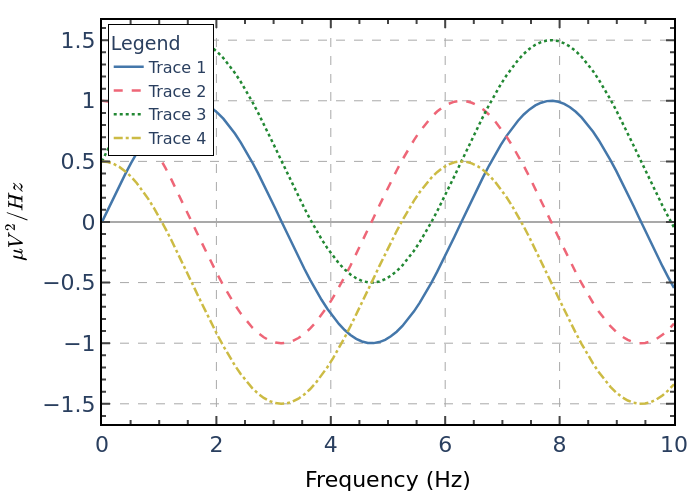
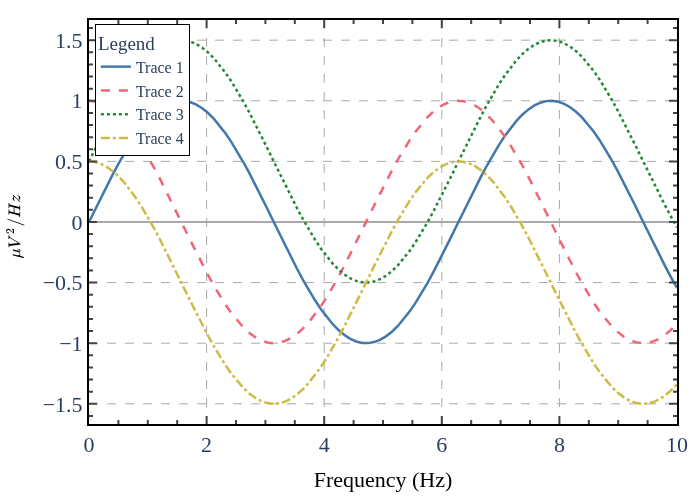
feat: Add APS style to plotly science plots
- Added a new 'aps' plot style configuration inside `apply_science_style`, updating the base science style with 'Times New Roman' font and black font color as per requirements.
- Updated `__main__` execution block to output an example plot matching the desired probability density function and theoretical PDF curve.
- Used raw string literals to avoid Python 3.12+ syntax warnings with latex characters (`\s`).
- Included `aps` in the listed `README.md` styles.

diff --git a/plotly_science_plots.py b/plotly_science_plots.py
@@ -100,6 +100,20 @@ def apply_science_style(fig, style_name, palette='science', grid=False, legend_p
         # Nature specific overrides
         fig.update_layout(font=dict(family="Arial"))
 
+    elif style_name == 'aps':
+        # Apply the base 'science' style first
+        apply_science_style(fig, 'science', palette=palette, grid=grid, legend_pos=legend_pos, xaxis_title=xaxis_title, yaxis_title=yaxis_title)
+
+        # APS specific overrides
+        fig.update_layout(
+            font=dict(family="Times New Roman", color="black"),
+            legend=dict(title_text='', bordercolor='lightgrey'),
+            margin=dict(l=40, r=20, t=20, b=40)
+        )
+        # Update grids to match typical APS style (lighter dashed grid)
+        fig.update_xaxes(gridcolor='lightgrey', zerolinecolor='lightgrey')
+        fig.update_yaxes(gridcolor='lightgrey', zerolinecolor='lightgrey')
+
 
 if __name__ == '__main__':
     # Create a dummy figure
@@ -111,9 +125,9 @@ if __name__ == '__main__':
 
     # --- Science Plot ---
     fig_science = go.Figure()
-    fig_science.add_trace(go.Scatter(x=x, y=y1, mode='lines', name='$\sin(x)$'))
-    fig_science.add_trace(go.Scatter(x=x, y=y2, mode='lines', name='$\cos(x)$'))
-    apply_science_style(fig_science, 'science', palette='bright', grid=True, legend_pos='bottom_right', xaxis_title="X-axis Title (units)", yaxis_title="Y-axis Title ($\int_0^x \sin(t) dt$)")
+    fig_science.add_trace(go.Scatter(x=x, y=y1, mode='lines', name=r'$\sin(x)$'))
+    fig_science.add_trace(go.Scatter(x=x, y=y2, mode='lines', name=r'$\cos(x)$'))
+    apply_science_style(fig_science, 'science', palette='bright', grid=True, legend_pos='bottom_right', xaxis_title="X-axis Title (units)", yaxis_title=r"Y-axis Title ($\int_0^x \sin(t) dt$)")
     fig_science.write_image("science.png")
 
     # --- IEEE Plot ---
@@ -122,12 +136,52 @@ if __name__ == '__main__':
     fig_ieee.add_trace(go.Scatter(x=x, y=y2, mode='lines', name='Trace 2'))
     fig_ieee.add_trace(go.Scatter(x=x, y=y3, mode='lines', name='Trace 3'))
     fig_ieee.add_trace(go.Scatter(x=x, y=y4, mode='lines', name='Trace 4'))
-    apply_science_style(fig_ieee, 'ieee', palette='bright', grid=True, legend_pos='top_left', xaxis_title="Frequency (Hz)", yaxis_title="Power Spectral Density ($\mu V^2/Hz$)")
+    apply_science_style(fig_ieee, 'ieee', palette='bright', grid=True, legend_pos='top_left', xaxis_title="Frequency (Hz)", yaxis_title=r"Power Spectral Density ($\mu V^2/Hz$)")
     fig_ieee.write_image("ieee.png")
 
     # --- Nature Plot ---
     fig_nature = go.Figure()
     fig_nature.add_trace(go.Scatter(x=x, y=y1, mode='lines', name='sin(x)'))
     fig_nature.add_trace(go.Scatter(x=x, y=y2, mode='lines', name='cos(x)'))
-    apply_science_style(fig_nature, 'nature', palette='muted', grid=True, legend_pos='bottom_center', xaxis_title="Time (s)", yaxis_title="Amplitude ($\\mathring{A}$)")
+    apply_science_style(fig_nature, 'nature', palette='muted', grid=True, legend_pos='bottom_center', xaxis_title="Time (s)", yaxis_title=r"Amplitude ($\mathring{A}$)")
     fig_nature.write_image("nature.png")
+
+    # --- APS Plot ---
+    np.random.seed(42)
+    x_data = np.random.normal(0, 1, 10000)
+    x_pdf = np.linspace(-4, 4, 100)
+    y_pdf = (1 / np.sqrt(2 * np.pi)) * np.exp(-0.5 * x_pdf**2)
+
+    fig_aps = go.Figure()
+
+    # Plot histogram
+    fig_aps.add_trace(go.Histogram(
+        x=x_data,
+        histnorm='probability density',
+        name='Data',
+        showlegend=False,
+        marker_color='#7baaf7', # light blue to match image
+        marker_line=dict(width=1, color='black'),
+        opacity=0.8,
+        xbins=dict(start=-4, end=4, size=0.2)
+    ))
+
+    # Plot theoretical PDF
+    fig_aps.add_trace(go.Scatter(
+        x=x_pdf,
+        y=y_pdf,
+        mode='lines',
+        name='Theoretical PDF',
+        line=dict(color='darkred', width=3)
+    ))
+
+    apply_science_style(
+        fig_aps,
+        style_name='aps',
+        grid=True,
+        legend_pos='top_left',
+        xaxis_title=r"Position $x$ (units)",
+        yaxis_title=r"Probability Density $P(x)$"
+    )
+
+    fig_aps.write_image("aps.png")
